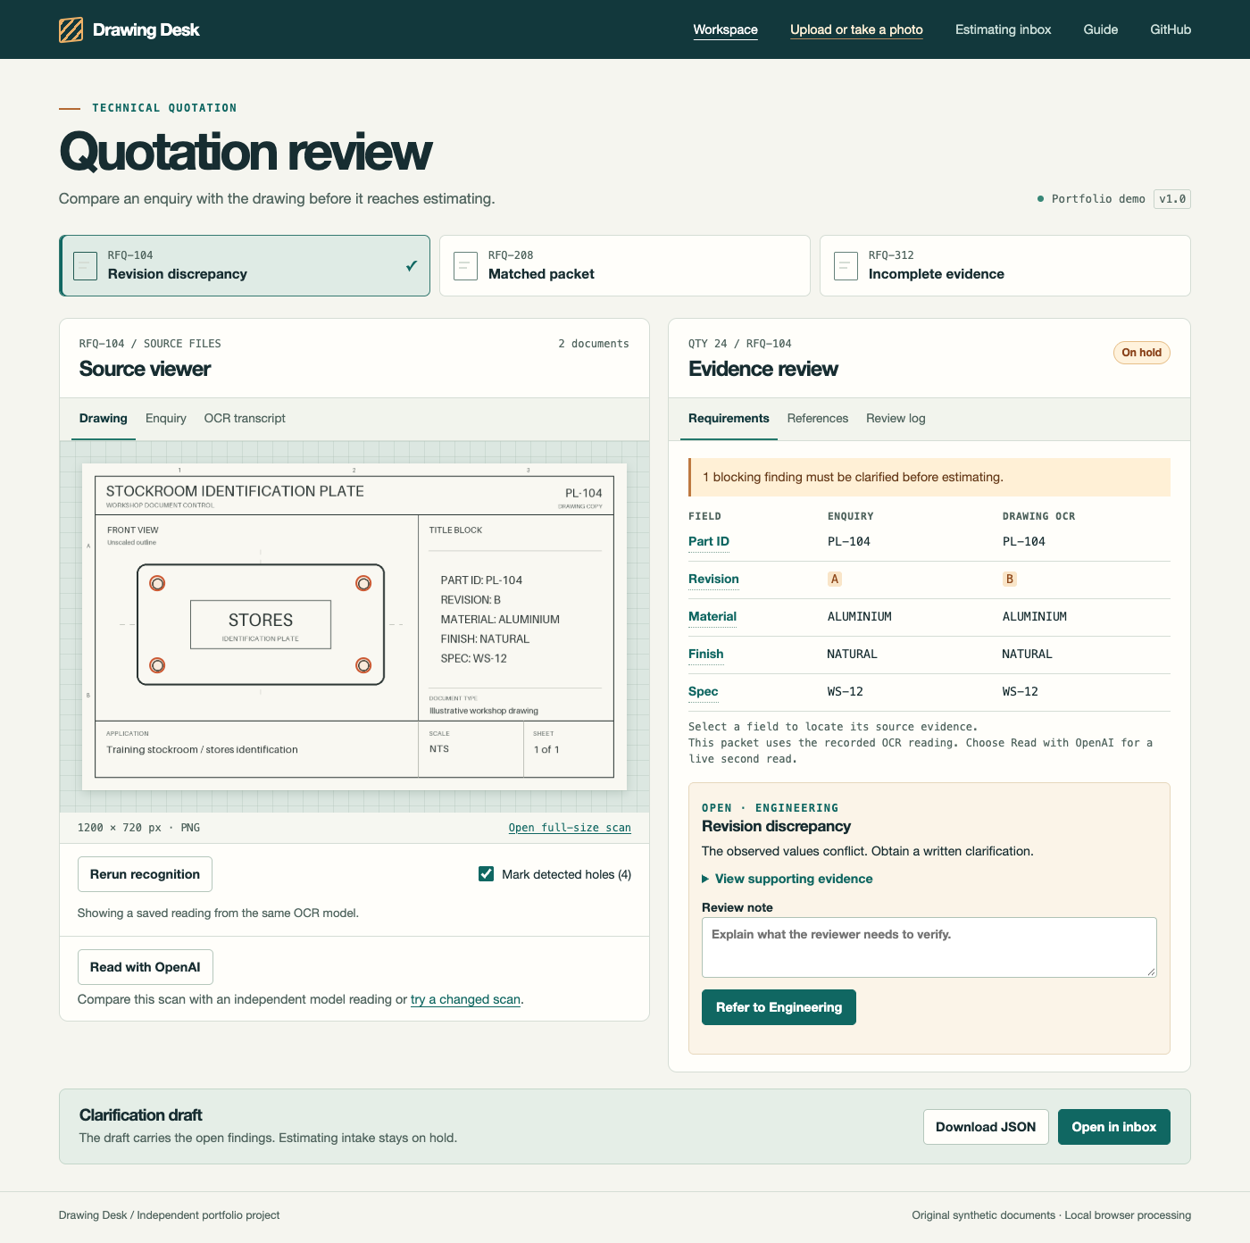
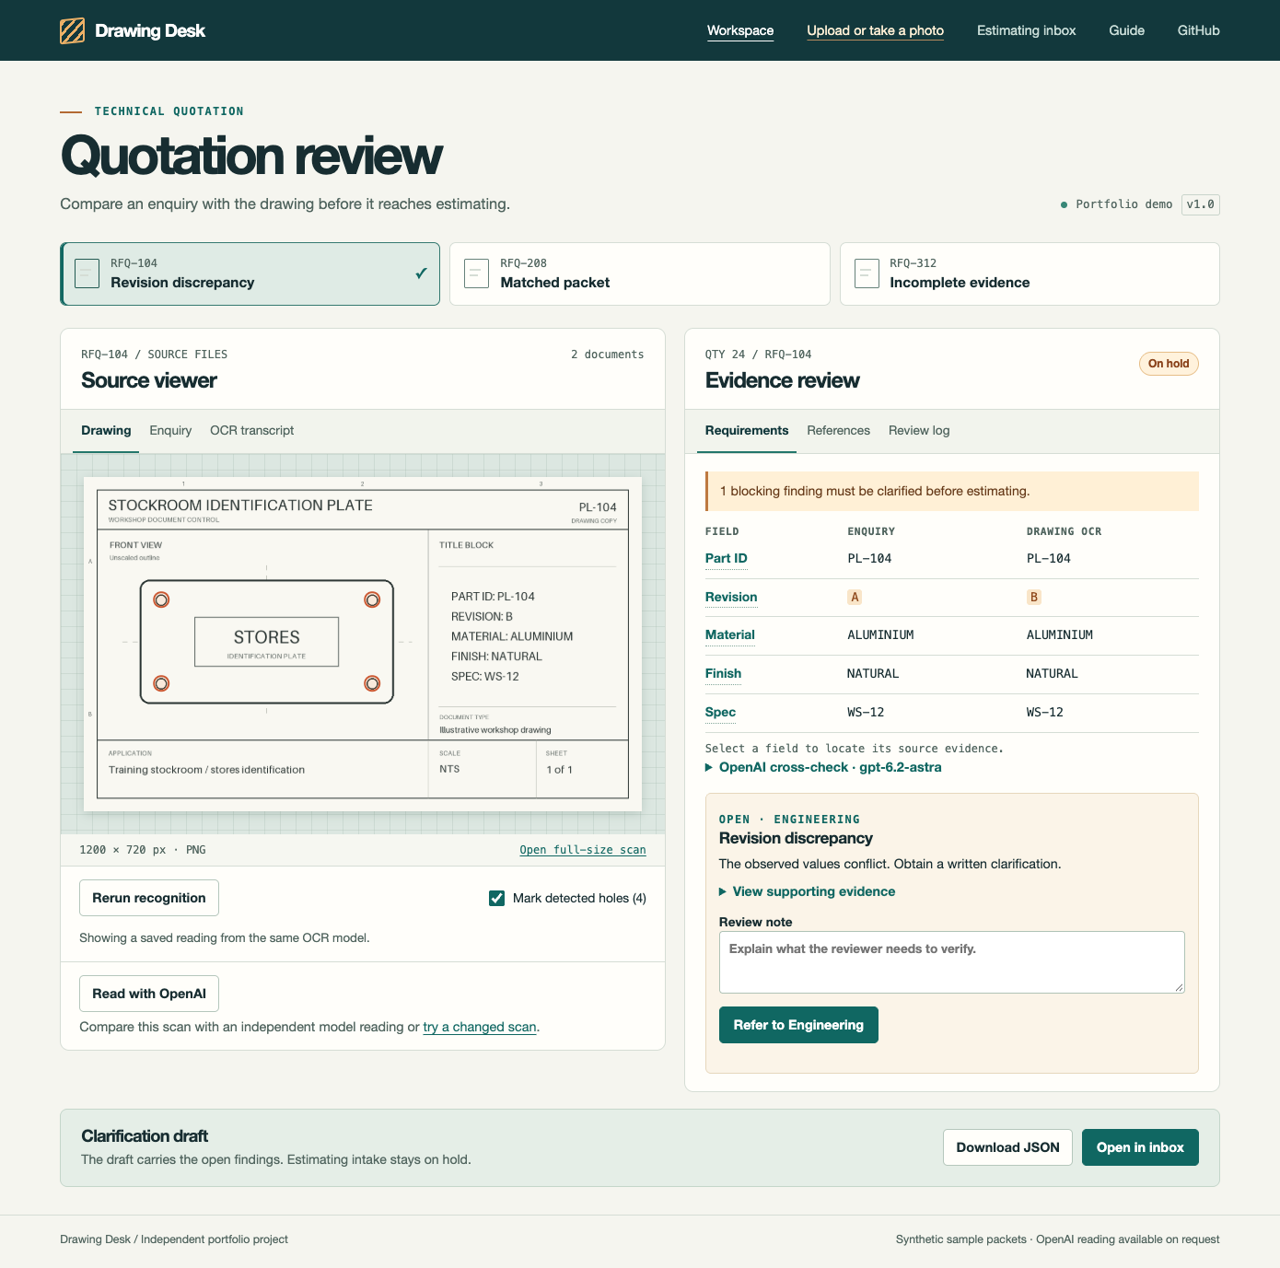
Record verified public PDF upload and release evidence for 1.0

diff --git a/inbox.html b/inbox.html
@@ -82,7 +82,7 @@
     <footer>
       <div class="shell foot">
         <span>Drawing Desk <span class="muted">/</span> Independent portfolio project</span
-        ><span>Original synthetic documents · Local browser processing</span>
+        ><span>Synthetic sample packets · OpenAI reading available on request</span>
       </div>
     </footer>
     <script type="module" src="app/inbox.mjs"></script>

diff --git a/index.html b/index.html
@@ -46,7 +46,7 @@
     <footer>
       <div class="shell foot">
         <span>Drawing Desk <span class="muted">/</span> Independent portfolio project</span
-        ><span>Original synthetic documents · Local browser processing</span>
+        ><span>Synthetic sample packets · OpenAI reading available on request</span>
       </div>
     </footer>
     <dialog id="guide">

diff --git a/README.md b/README.md
@@ -40,6 +40,8 @@ The original three drawings yielded **15/15 expected field decisions** and **9/9
 
 On a fourth, differently laid-out office inventory card, an actual file chooser on the published site sent one request after explicit confirmation. GPT-6.2 Astra and full-page browser OCR each matched all **5/5** expected field decisions, including the blank specification. The test used a touch-enabled WebKit iPhone 13 profile. [Uploaded test image](tests/reader-independent.png) · [Live upload record](tests/openai-upload-e2e.json)
 
+A further public upload check selected the **second page** of a two-page PDF. Only that page’s prepared JPEG went to the model; the five returned fields matched the raster-only page, including part ID **CARD-386**. [Paid PDF upload record](tests/openai-pdf-e2e.json) · [PDF fixture](tests/pdf-fixtures/workshop-label-pages.pdf)
+
 For eight hand-labelled relevant reference queries, six returned the intended clause first and seven returned it in the first three. Review the known wording miss and the negative controls in the [validation guide](docs/validation-engine.md).
 
 Three actual, paid GPT-6.2 Astra responses scored **15/15 exact field decisions** on the original scans, including one absent specification. All **14/14** returned evidence boxes contained the centre of the corresponding OCR line. That location score compares the two reading systems on these images. The model received each image alone, without the enquiry, OCR, or expected answers. The service tests use an HTTP test double and real SQLite transactions to exercise quotas and failure handling. Only a captured provider response counts as a live model observation. [OpenAI service method](docs/openai-service.md) · [Offline service tests](tests/service.test.mjs)

diff --git a/docs/pdf-reader.md b/docs/pdf-reader.md
@@ -21,3 +21,5 @@ python3 scripts/vendor-pdf.py
 ```
 
 The PDF smoke test selects a genuine two-page synthetic drawing and reads its distinct page identifiers through browser OCR. It checks page changes, the optional evidence overlay, rejected documents and the body of a simulated model request. It was run on desktop Chromium and mobile WebKit emulation. Its service response is a fixture and consumes no OpenAI credit. [Browser smoke script](../scripts/pdf-smoke.cjs) · [Test PDF sources](../tests/pdf-fixtures/README.md).
+
+A separate live check on the published site imported the same two-page document with WebKit in an iPhone 13 profile, selected the raster-only second page, and explicitly sent its preview. The hosted model read all five expected fields, including CARD-386. Only the JPEG page image was transmitted. A physical handset was not used. [Actual response and case result](../tests/openai-pdf-e2e.json) · [Opt-in paid reproduction](../scripts/live-pdf-check.cjs)

diff --git a/docs/technical-path.zh-CN.md b/docs/technical-path.zh-CN.md
@@ -28,3 +28,5 @@
 ## 1.0 实测数据
 
 三张原始图上，GPT-6.2 Astra 的 15 次字段判断全部符合标注，包括一处缺失规格。14 个有文字的位置框全部包含对应 OCR 文字行的中心。另用不同版式的办公库存卡，从公网手机模拟浏览器的文件选择器实际上传，模型和全图 OCR 各得到 5/5。两组都使用原创合成资料。降采样、遮盖等 18 个受控输入专门测试本地 OCR 和图形识别，本地 OCR 得到 89/90，模型未参加这组受控变形测量。[模型原图结果](../tests/openai-benchmark.json) · [独立上传记录](../tests/openai-upload-e2e.json) · [本地视觉测试](vision.md)
+
+最后又从已发布的手机网页选择一份两页 PDF 的第二页，真实提交该页的 JPEG。模型读出 **CARD-386、F、VINYL、GLOSS、CARD-72**，5/5 符合这一页的标注。[公网选页实测](../tests/openai-pdf-e2e.json)
